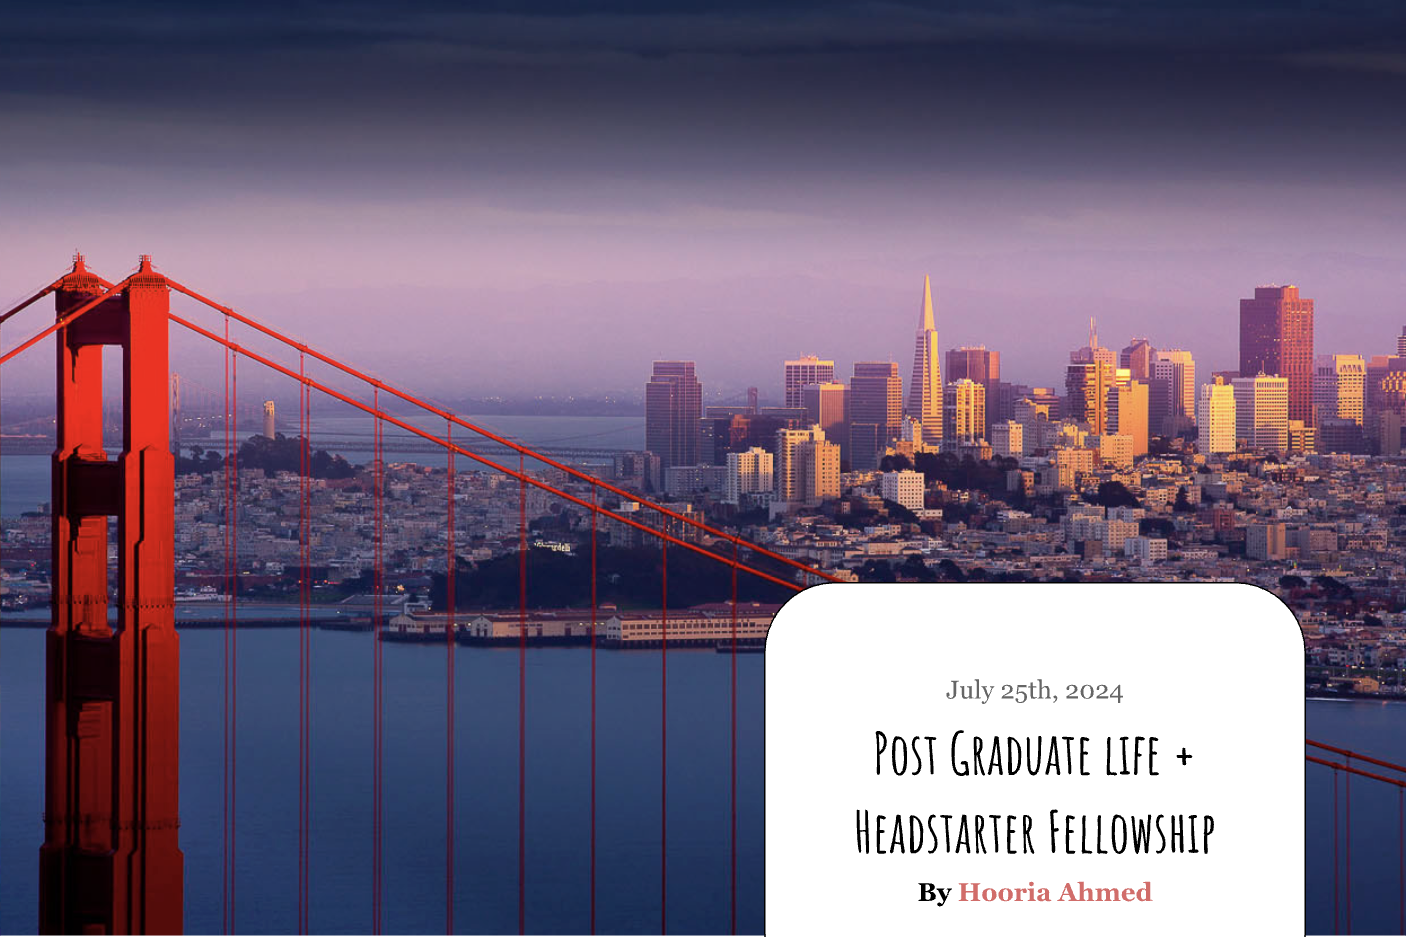
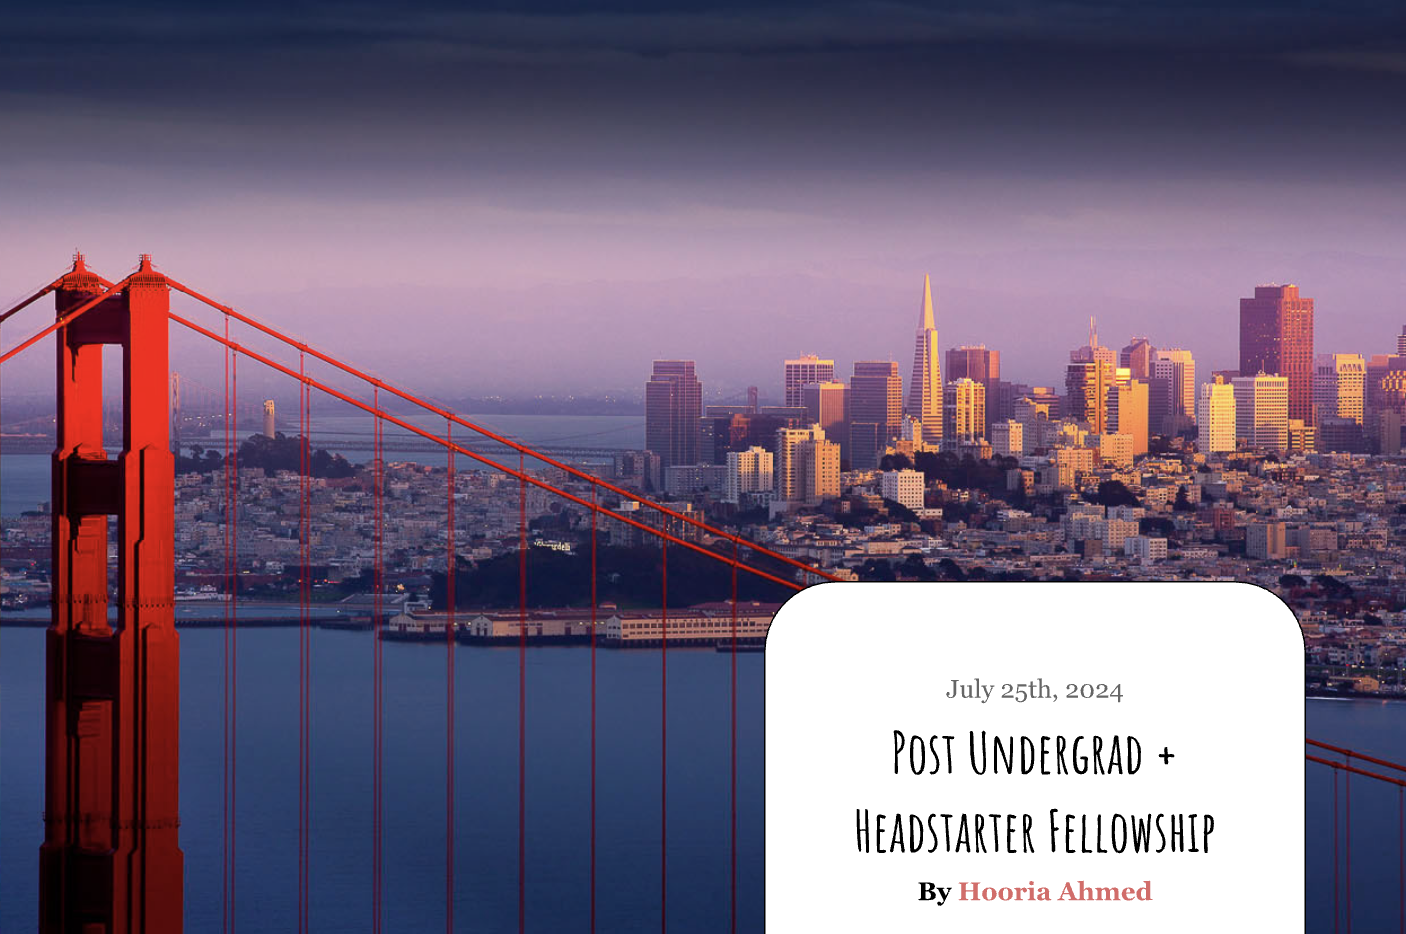
blog change

diff --git a/blog.html b/blog.html
@@ -61,9 +61,9 @@
 										
 										Through my network, I was able to land an internship at PromoterMotor as a Software Engineering Intern. This was a huge help in taking me out of my thoughts of not being good enough, as I was making a real impact and helping non-profits with their marketing goals! With that gained confidence, I started looking for opportunities where I could grow my skillset.
 										
-										Now, two months after my internship ended, I applied for Headstarter AI's fellowship and got accepted! It's a Software Engineering fellowship (see, girl, you are a SWE girlie) and I signed up for an Entrepreneurial route, which is daunting, I'm not going to lie. I'm very social in person, but online, I'm a bit hesitant. However, I'm trying to anchor on my extroverted personality and jump into blogging or posting on LinkedIn, hopefully becoming comfortable with what comes with being an entrepreneur!
+										Now, two months after my internship ended, <span style="font-weight: bold; color: rgb(212, 52, 108);">I applied for Headstarter AI's fellowship and got accepted!</span> It's a Software Engineering fellowship (see, girl, you are a SWE girlie) and I signed up for an Entrepreneurial route, which is daunting, I'm not going to lie. I'm very social in person, but online, I'm a bit hesitant. However, I'm trying to anchor on my extroverted personality and jump into blogging or posting on LinkedIn, hopefully becoming comfortable with what comes with being an entrepreneur!
 										
-										This is my first week at Headstarter, and I'm so glad I joined because every day includes a motivational talk and some good reminders that keep my imposter syndrome in check. I see so many talented people around me, and some are way ahead of me, which can be overwhelming. But Yahsin Ehsan, the founder of Headstarter AI, said, "This is not a competition, but an acceleration," and I realized what an amazing mindset that is to have. We're all there for each other!
+										This is my first week at Headstarter, and I'm so glad I joined because every day includes a motivational talk and some good reminders that keep my imposter syndrome in check. I see so many talented people around me, and some are way ahead of me, which can be overwhelming. But <span style="font-weight: bold; color: rgb(212, 52, 108);">Yahsin Ehsan, the founder of Headstarter AI, said, "This is not a competition, but an acceleration,"</span> and I realized what an amazing mindset that is to have. We're all there for each other!
 										
 										With this new mindset, I aim to compete only with myself and make sure I'm improving every day, even if it's just a little bit, whether in personal or professional development.<br>
 										
@@ -116,7 +116,7 @@
 									<div class="mini-posts">
 										<article>
 											<a href="blog.html" class="image"><img src="images/Blog1Image.png" alt="" /></a>
-											<a href="blog.html"><p>Post-graduate Life and Headstarter Fellowship</a>
+											<a href="blog.html"><p>Post Undergrad Life and Headstarter Fellowship</a>
 											</p>
 										</article>
 										

diff --git a/index.html b/index.html
@@ -186,8 +186,7 @@
 								<div class="mini-posts">
 									<article>
 										<a href="blog.html" class="image"><img src="images/Blog1Image.png" alt="hooria ahmed" /></a>
-										<a href="blog.html"><p>Post-graduate Life and Headstarter Fellowship</a>
-										</p>
+										<a href="blog.html"><p>Post Undergrad Life and Headstarter Fellowship</a>										</p>
 									</article>
 									
 								<ul class="actions">
